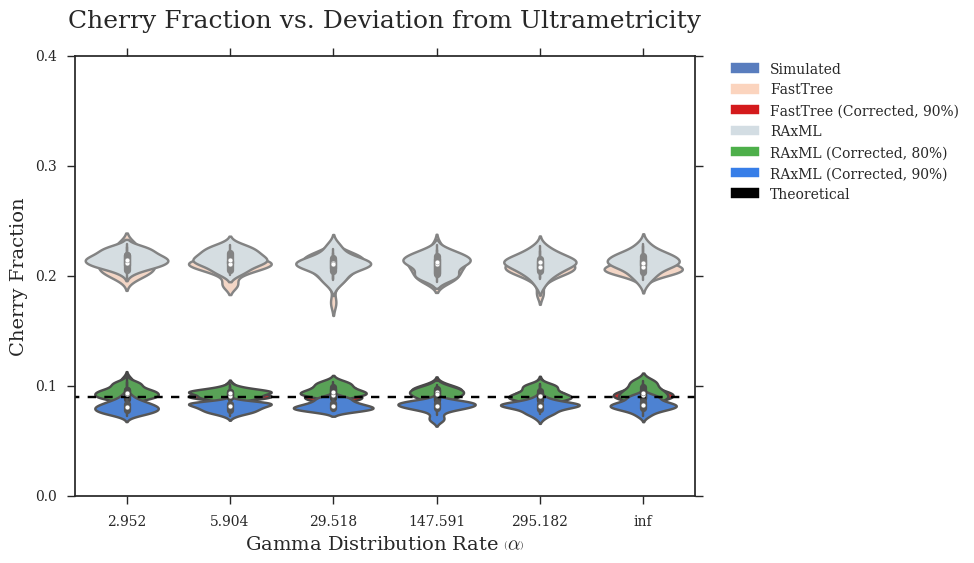
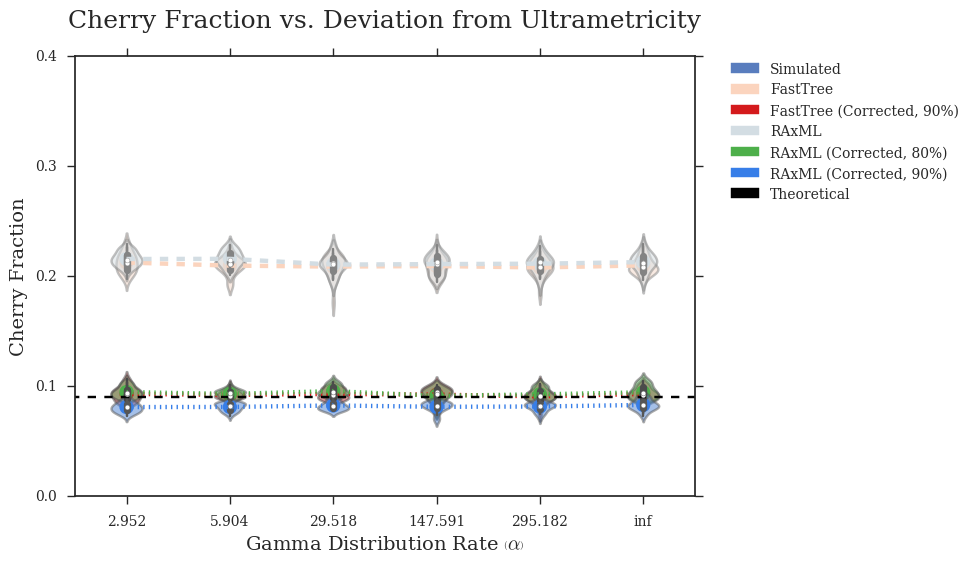
Fixed figures

Changed region(s): [[0.0924, 0.4227, 0.7084, 0.5737], [0.0924, 0.6643, 0.7084, 0.7549]]

diff --git a/figures/scripts/8_cherries-vs-params_with-corrections.py b/figures/scripts/8_cherries-vs-params_with-corrections.py
@@ -481,11 +481,17 @@ plt.close()
 # plot Cherry Fraction vs. length
 fig = plt.figure()
 x = np.array([50,100,200,300,600,1200,2400,4800])
-sns.violinplot(x='length',y='cherries',data=pd.DataFrame(k_fasttree),order=x,color=pal['fasttree'])
-sns.violinplot(x='length',y='cherries',data=pd.DataFrame(k_fasttree_fix90),order=x,color=pal['fasttree_fix90'])
-sns.violinplot(x='length',y='cherries',data=pd.DataFrame(k_raxml),order=x,color=pal['raxml'])
-sns.violinplot(x='length',y='cherries',data=pd.DataFrame(k_raxml_fix80),order=x,color=pal['raxml_fix80'])
-sns.violinplot(x='length',y='cherries',data=pd.DataFrame(k_raxml_fix90),order=x,color=pal['raxml_fix90'])
+ax = sns.violinplot(x='length',y='cherries',data=pd.DataFrame(k_fasttree),order=x,color=pal['fasttree'],width=0.3)
+sns.pointplot(np.asarray([sum(k_fasttree['length'][i:i+20])/20.0 for i in range(0,len(k_fasttree['cherries']),20)]),[sum(k_fasttree['cherries'][i:i+20])/20.0 for i in range(0,len(k_fasttree['cherries']),20)],color=pal['fasttree'],linestyles=['--'],linewidth=3)
+sns.violinplot(x='length',y='cherries',data=pd.DataFrame(k_fasttree_fix90),order=x,color=pal['fasttree_fix90'],scale='width',width=0.3)
+sns.pointplot(np.asarray([sum(k_fasttree_fix90['length'][i:i+20])/20.0 for i in range(0,len(k_fasttree_fix90['cherries']),20)]),[sum(k_fasttree_fix90['cherries'][i:i+20])/20.0 for i in range(0,len(k_fasttree_fix90['cherries']),20)],color=pal['fasttree_fix90'],linestyles=[':'],linewidth=3)
+sns.violinplot(x='length',y='cherries',data=pd.DataFrame(k_raxml),order=x,color=pal['raxml'],width=0.3)
+sns.pointplot(np.asarray([sum(k_raxml['length'][i:i+20])/20.0 for i in range(0,len(k_raxml['cherries']),20)]),[sum(k_raxml['cherries'][i:i+20])/20.0 for i in range(0,len(k_raxml['cherries']),20)],color=pal['raxml'],linestyles=['--'],linewidth=3)
+sns.violinplot(x='length',y='cherries',data=pd.DataFrame(k_raxml_fix80),order=x,color=pal['raxml_fix80'],scale='width',width=0.3)
+sns.pointplot(np.asarray([sum(k_raxml_fix80['length'][i:i+20])/20.0 for i in range(0,len(k_raxml_fix80['cherries']),20)]),[sum(k_raxml_fix80['cherries'][i:i+20])/20.0 for i in range(0,len(k_raxml_fix80['cherries']),20)],color=pal['raxml_fix80'],linestyles=[':'],linewidth=3)
+sns.violinplot(x='length',y='cherries',data=pd.DataFrame(k_raxml_fix90),order=x,color=pal['raxml_fix90'],scale='width',width=0.3)
+sns.pointplot(np.asarray([sum(k_raxml_fix90['length'][i:i+20])/20.0 for i in range(0,len(k_raxml_fix90['cherries']),20)]),[sum(k_raxml_fix90['cherries'][i:i+20])/20.0 for i in range(0,len(k_raxml_fix90['cherries']),20)],color=pal['raxml_fix90'],linestyles=[':'],linewidth=3)
+setAlpha(ax,0.5)
 x = np.linspace(-100,5000,5100)
 plt.plot(x,np.array([cherries_vs_r(0.01)]*len(x)),label='Theoretical',linestyle='--',color=pal['theoretical'])
 plt.yticks(axisY); plt.ylim(axisY[0],axisY[-1])
@@ -500,11 +506,17 @@ plt.close()
 # plot Cherry Fraction vs. gamma rate
 fig = plt.figure()
 x = np.array([2.952,5.904,29.518,147.591,295.182,float('inf')])
-sns.violinplot(x='gammarate',y='cherries',data=pd.DataFrame(g_fasttree),order=x,color=pal['fasttree'])
-sns.violinplot(x='gammarate',y='cherries',data=pd.DataFrame(g_fasttree_fix90),order=x,color=pal['fasttree_fix90'])
-sns.violinplot(x='gammarate',y='cherries',data=pd.DataFrame(g_raxml),order=x,color=pal['raxml'])
-sns.violinplot(x='gammarate',y='cherries',data=pd.DataFrame(g_raxml_fix80),order=x,color=pal['raxml_fix80'])
-sns.violinplot(x='gammarate',y='cherries',data=pd.DataFrame(g_raxml_fix90),order=x,color=pal['raxml_fix90'])
+ax = sns.violinplot(x='gammarate',y='cherries',data=pd.DataFrame(g_fasttree),order=x,color=pal['fasttree'],width=0.3)
+sns.pointplot(np.asarray([sum(g_fasttree['gammarate'][i:i+20])/20.0 for i in range(0,len(g_fasttree['cherries']),20)]),[sum(g_fasttree['cherries'][i:i+20])/20.0 for i in range(0,len(g_fasttree['cherries']),20)],color=pal['fasttree'],linestyles=['--'],linewidth=3)
+sns.violinplot(x='gammarate',y='cherries',data=pd.DataFrame(g_fasttree_fix90),order=x,color=pal['fasttree_fix90'],scale='width',width=0.3)
+sns.pointplot(np.asarray([sum(g_fasttree_fix90['gammarate'][i:i+20])/20.0 for i in range(0,len(g_fasttree_fix90['cherries']),20)]),[sum(g_fasttree_fix90['cherries'][i:i+20])/20.0 for i in range(0,len(g_fasttree_fix90['cherries']),20)],color=pal['fasttree_fix90'],linestyles=[':'],linewidth=3)
+sns.violinplot(x='gammarate',y='cherries',data=pd.DataFrame(g_raxml),order=x,color=pal['raxml'],width=0.3)
+sns.pointplot(np.asarray([sum(g_raxml['gammarate'][i:i+20])/20.0 for i in range(0,len(g_raxml['cherries']),20)]),[sum(g_raxml['cherries'][i:i+20])/20.0 for i in range(0,len(g_raxml['cherries']),20)],color=pal['raxml'],linestyles=['--'],linewidth=3)
+sns.violinplot(x='gammarate',y='cherries',data=pd.DataFrame(g_raxml_fix80),order=x,color=pal['raxml_fix80'],scale='width',width=0.3)
+sns.pointplot(np.asarray([sum(g_raxml_fix80['gammarate'][i:i+20])/20.0 for i in range(0,len(g_raxml_fix80['cherries']),20)]),[sum(g_raxml_fix80['cherries'][i:i+20])/20.0 for i in range(0,len(g_raxml_fix80['cherries']),20)],color=pal['raxml_fix80'],linestyles=[':'],linewidth=3)
+sns.violinplot(x='gammarate',y='cherries',data=pd.DataFrame(g_raxml_fix90),order=x,color=pal['raxml_fix90'],scale='width',width=0.3)
+sns.pointplot(np.asarray([sum(g_raxml_fix90['gammarate'][i:i+20])/20.0 for i in range(0,len(g_raxml_fix90['cherries']),20)]),[sum(g_raxml_fix90['cherries'][i:i+20])/20.0 for i in range(0,len(g_raxml_fix90['cherries']),20)],color=pal['raxml_fix90'],linestyles=[':'],linewidth=3)
+setAlpha(ax,0.5)
 x = np.linspace(-100,1000,5000)
 plt.plot(x,np.array([cherries_vs_r(0.01)]*len(x)),label='Theoretical',linestyle='--',color=pal['theoretical'])
 plt.yticks(axisY); plt.ylim(axisY[0],axisY[-1])

diff --git a/figures/scripts/5_raxml-likelihood-vs-parameters.py b/figures/scripts/5_raxml-likelihood-vs-parameters.py
@@ -214,6 +214,7 @@ for i in range(len(r_fasttree['score'])):
     df['category'][currNum] = 'raxml'
 df = pd.DataFrame(df)
 ax = sns.violinplot(x='r',y='score',hue='category',data=df,order=x,palette=pal)
+plt.ylim(-350000,0)
 legend = plt.legend(handles=handles,bbox_to_anchor=(1.05, 1), loc=2, borderaxespad=0.)
 sns.plt.xlabel(r'$\log_{10}{r} = \log_{10}{\left(\frac{\lambda_A}{\lambda_B}\right)}\ \left(E(l_b)=0.298\right)$',fontsize=14)
 sns.plt.ylabel('RAxML Score',fontsize=14)
@@ -241,6 +242,7 @@ for i in range(len(r2_fasttree['score'])):
     df['category'][currNum] = 'raxml'
 df = pd.DataFrame(df)
 ax = sns.violinplot(x='r',y='score',hue='category',data=df,order=x,palette=pal)
+plt.ylim(-350000,0)
 legend = plt.legend(handles=handles,bbox_to_anchor=(1.05, 1), loc=2, borderaxespad=0.)
 sns.plt.xlabel(r'$\log_{10}{r} = \log_{10}{\left(\frac{\lambda_A}{\lambda_B}\right)}\ \left(\lambda = \lambda_A + \lambda_B = 169\right)$',fontsize=14)
 sns.plt.ylabel('RAxML Score',fontsize=14)
@@ -268,6 +270,7 @@ for i in range(len(l_fasttree['score'])):
     df['category'][currNum] = 'raxml'
 df = pd.DataFrame(df)
 ax = sns.violinplot(x='lambda',y='score',hue='category',data=df,order=x,palette=pal)
+plt.ylim(-350000,0)
 legend = plt.legend(handles=handles,bbox_to_anchor=(1.05, 1), loc=2, borderaxespad=0.)
 sns.plt.xlabel(r'$\lambda = \lambda_A + \lambda_B$',fontsize=14)
 sns.plt.ylabel('RAxML Score',fontsize=14)
@@ -295,6 +298,7 @@ for i in range(len(k_fasttree['score'])):
     df['category'][currNum] = 'raxml'
 df = pd.DataFrame(df)
 ax = sns.violinplot(x='length',y='score',hue='category',data=df,order=x,palette=pal)
+plt.ylim(-350000,0)
 legend = plt.legend(handles=handles,bbox_to_anchor=(1.05, 1), loc=2, borderaxespad=0.)
 sns.plt.xlabel('Sequence Length',fontsize=14)
 sns.plt.ylabel('RAxML Score',fontsize=14)
@@ -322,6 +326,7 @@ for i in range(len(g_fasttree['score'])):
     df['category'][currNum] = 'raxml'
 df = pd.DataFrame(df)
 ax = sns.violinplot(x='gammarate',y='score',hue='category',data=df,order=x,palette=pal)
+plt.ylim(-350000,0)
 legend = plt.legend(handles=handles,bbox_to_anchor=(1.05, 1), loc=2, borderaxespad=0.)
 sns.plt.xlabel(r'Gamma Distribution Rate $\left(\alpha\right)$',fontsize=14)
 sns.plt.ylabel('RAxML Score',fontsize=14)

diff --git a/figures/scripts/4_cherry-deviation-vs-tree-error-rf.py b/figures/scripts/4_cherry-deviation-vs-tree-error-rf.py
@@ -45,6 +45,8 @@ data = pd.DataFrame({'rf_fasttree':np.asarray(rf_fasttree),'ratio_fasttree':np.l
 fig = plt.figure()
 sns.regplot(x='rf_fasttree',y='diff_fasttree',data=data,color=pal['fasttree'])
 sns.regplot(x='rf_raxml',y='diff_raxml',data=data,color=pal['raxml'])
+plt.xlim(0,1)
+plt.ylim(-100,400)
 legend = plt.legend(handles=handles,bbox_to_anchor=(1.05, 1), loc=2, borderaxespad=0.)
 sns.plt.xlabel('Tree Error (RF)',fontsize=14)
 sns.plt.ylabel(r'Cherry Deviation $\left(Inferred-True\right)$')
@@ -58,6 +60,8 @@ plt.close()
 fig = plt.figure()
 sns.regplot(x='rf_fasttree',y='ratio_fasttree',data=data,color=pal['fasttree'])
 sns.regplot(x='rf_raxml',y='ratio_raxml',data=data,color=pal['raxml'])
+plt.xlim(0,1)
+plt.ylim(-0.5,2)
 legend = plt.legend(handles=handles,bbox_to_anchor=(1.05, 1), loc=2, borderaxespad=0.)
 sns.plt.xlabel('Tree Error (RF)',fontsize=14)
 sns.plt.ylabel(r'Cherry Deviation $\left(\log_{10}{\frac{Inferred}{True}}\right)$')
